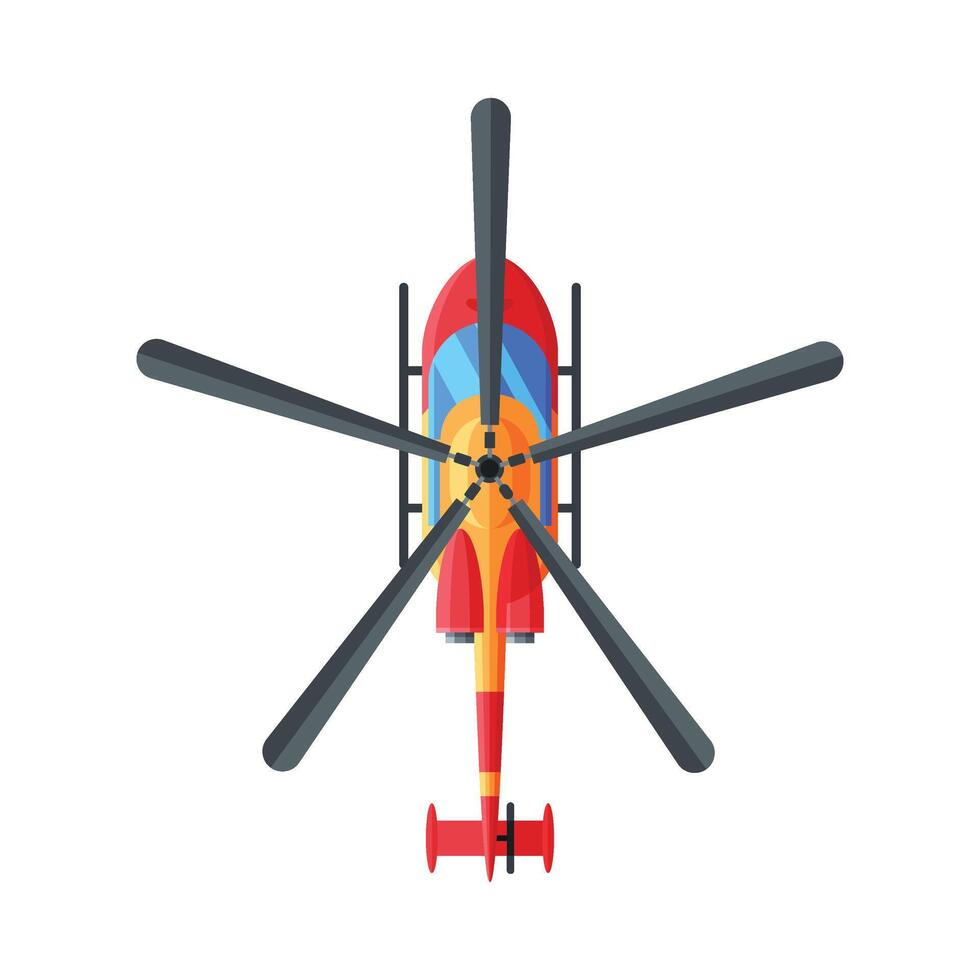
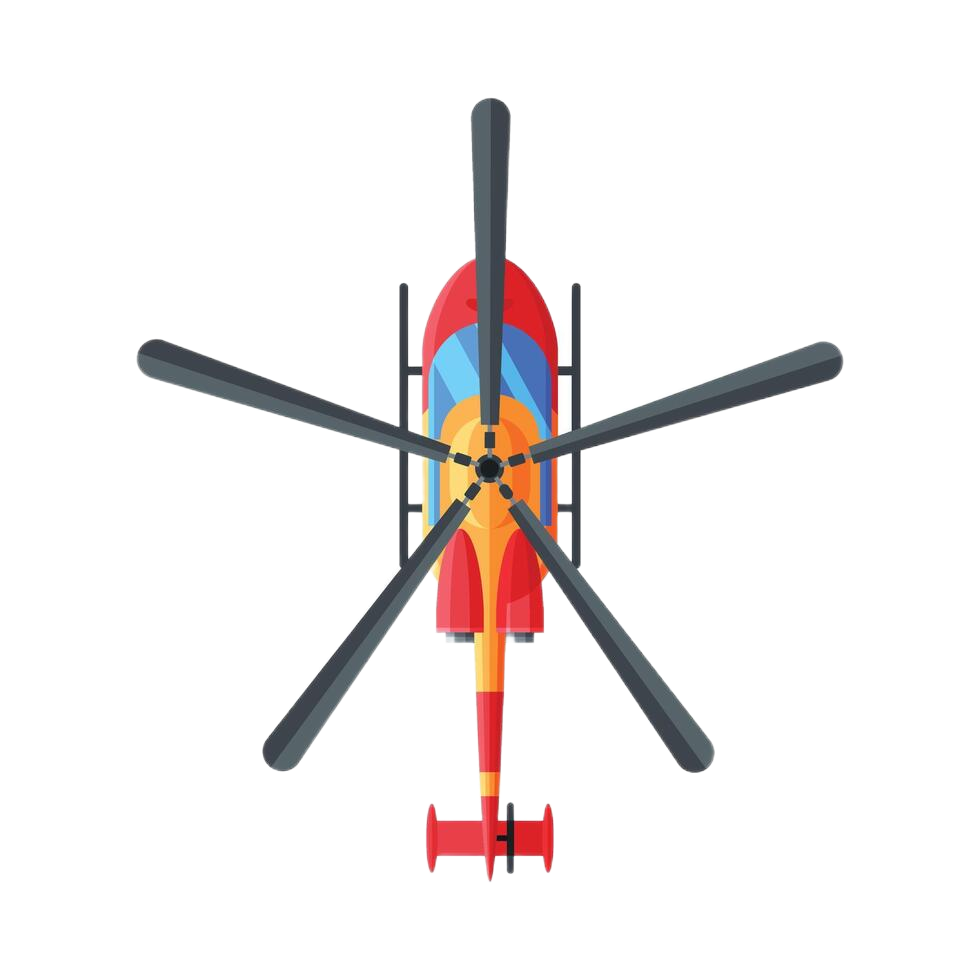
Spawn enemy

diff --git a/MainGame.py b/MainGame.py
@@ -1,6 +1,8 @@
+from random import randint, choice
 import arcade
 
 from Sprites.Plane import Plane
+from Sprites.Enemy import Enemy
 
 SCREEN_WIDTH = 1920
 SCREEN_HEIGHT = 1080
@@ -43,20 +45,49 @@ class Gaming(arcade.View):
     def __init__(self):
         super().__init__()
         self.keys_pressed = set()
+        self.spawn_enemy_timer = 0
 
         self.plane_list = arcade.SpriteList()
+        self.enemy_list = arcade.SpriteList()
 
         self.plane = Plane('Pictures/plane.png', 0.2, SCREEN_WIDTH // 2 - 200, SCREEN_HEIGHT // 2 - 150, 0)
         self.plane_list.append(self.plane)
+
+    def spawn_enemy(self):
+        side = choice([0, SCREEN_HEIGHT])
+        ans = 0
+        if side == SCREEN_HEIGHT:
+            a, b = 100, 250
+            ans = randint(a, b)
+        else:
+            a, b = randint(280, 360), randint(0, 70)
+            ans = choice([a, b])
+        enemy = Enemy('Pictures/enemy.png', 0.15, randint(0, SCREEN_WIDTH),
+                      side, ans)
+        self.enemy_list.append(enemy)
 
     def on_draw(self):
         self.clear()
         rect = arcade.rect.LRBT(0, 1920, 0, 1080)
         arcade.draw_texture_rect(BACKGROUND_TEXTURE, rect)
         self.plane_list.draw()
+        self.enemy_list.draw()
 
     def on_update(self, delta_time):
         self.plane_list.update(delta_time, self.keys_pressed)
+        self.spawn_enemy_timer += delta_time
+        if self.spawn_enemy_timer >= 3:
+            self.spawn_enemy_timer = 0
+            self.spawn_enemy()
+
+        self.enemy_list.update(delta_time)
+
+        for enemy in self.enemy_list:
+            x, y = enemy.center_x, enemy.center_y
+            if x - 500 >= SCREEN_WIDTH or x + 500 <= 0:
+                self.enemy_list.remove(enemy)
+            elif y - 500 >= SCREEN_HEIGHT or y + 500 <= 0:
+                self.enemy_list.remove(enemy)
 
     def on_key_press(self, key, modifiers):
         self.keys_pressed.add(key)

diff --git a/Sprites/Enemy.py b/Sprites/Enemy.py
@@ -1,0 +1,23 @@
+from random import randint
+
+import arcade, math
+
+SPEED = 300
+
+
+class Enemy(arcade.Sprite):
+    def __int__(self, texture, scale, x, y, angle):
+        super().__init__(self)
+        self.texture = texture
+        self.scale = scale
+        self.center_x = x
+        self.center_y = y
+        self.angle = angle
+
+    def update(self, delta_time):
+        an = math.radians(self.angle)
+        dx = math.sin(an) * SPEED
+        dy = math.cos(an) * SPEED
+
+        self.center_x += dx * delta_time
+        self.center_y += dy * delta_time

diff --git a/Sprites/Plane.py b/Sprites/Plane.py
@@ -1,6 +1,4 @@
-import math
-
-import arcade
+import arcade, math
 
 SCREEN_WIDTH = 1920
 SCREEN_HEIGHT = 1080